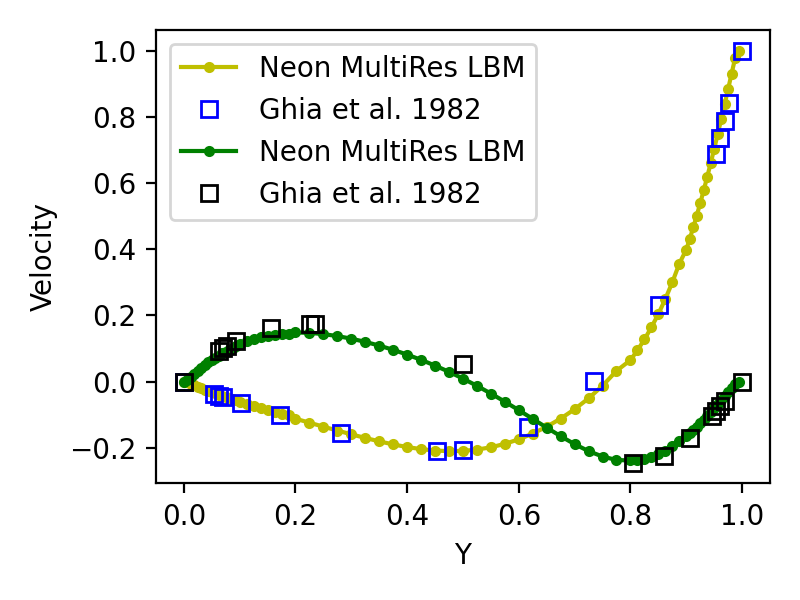
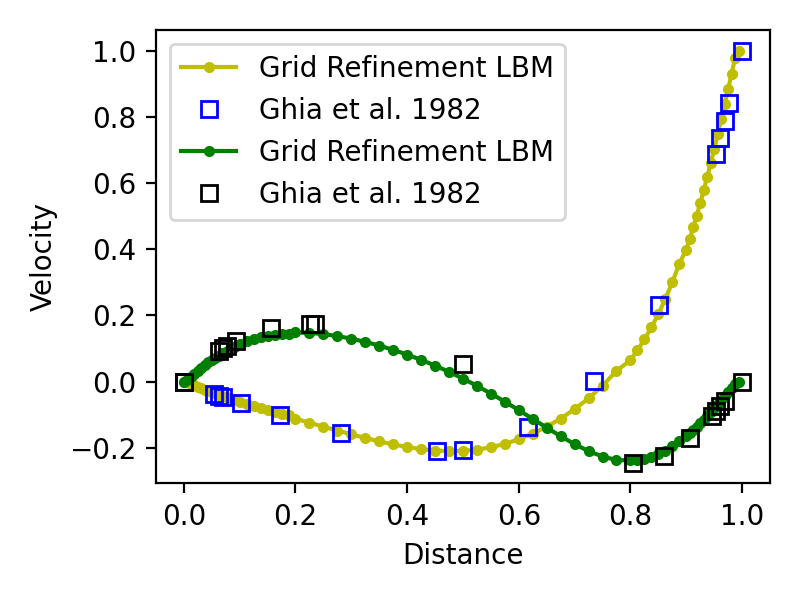
update grid configuration and figures

Changed region(s): [[0.3125, 0.06, 0.7188, 0.39], [0.5, 0.9, 0.6562, 0.96]]

diff --git a/libNeonDomain/include/Neon/domain/details/mGrid/mField_imp.h b/libNeonDomain/include/Neon/domain/details/mGrid/mField_imp.h
@@ -395,9 +395,9 @@ auto mField<T, C>::ioToVtk(std::string fileName,
                                                                            double(voxelGlobalID.y) / double(l0Dim.y),
                                                                            double(voxelGlobalID.z) / double(l0Dim.z));
 
-                                            if (!((location.x > lowSlice && location.x < highSlice) ||
+                                            if (!((location.x > lowSlice && location.x < highSlice) /*||
                                                   (location.y > lowSlice && location.y < highSlice) ||
-                                                  (location.z > lowSlice && location.z < highSlice))) {
+                                                  (location.z > lowSlice && location.z < highSlice)*/ ) ) {
                                                 draw = false;
                                             }
 

diff --git a/apps/lbmMultiRes/scripts/plot.py b/apps/lbmMultiRes/scripts/plot.py
@@ -22,7 +22,7 @@ def plotme(dat_filename_X="", dat_filename_Y="", label="", png_filename="", scal
                   label='Ghia et al. 1982')
 
     axes.legend()
-    axes.set_xlabel(r'Y')
+    axes.set_xlabel(r'Distance')
     axes.set_ylabel(r'Velocity')
     plt.tight_layout()
     plt.savefig(png_filename)
@@ -30,11 +30,11 @@ def plotme(dat_filename_X="", dat_filename_Y="", label="", png_filename="", scal
 
 plotme(dat_filename_X='NeonMultiResLBM_5000_X.dat',
        dat_filename_Y='NeonMultiResLBM_5000_Y.dat',
-       label='Neon MultiRes LBM',
+       label='Grid Refinement LBM',
        png_filename='MultiResNeon_vs_ghia1982.png',
        scale=1)
 
 plotme(dat_filename_Y='NeonUniformLBM_20000_Y.dat',
-       label='Neon Uniform LBM',
+       label='Uniform LBM',
        png_filename='UniformNeon_vs_ghia1982.png',
        scale=25)
